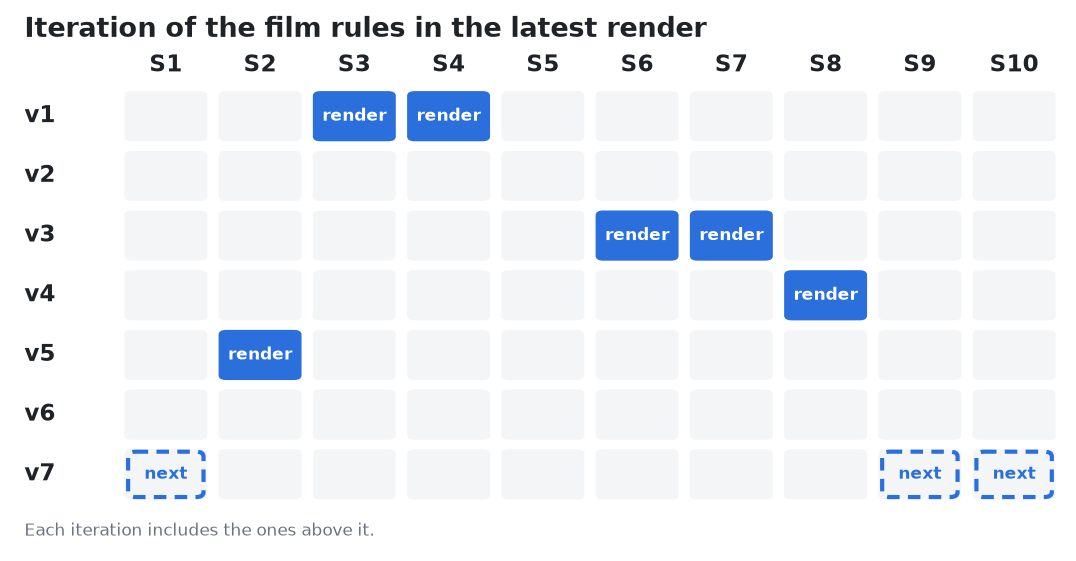
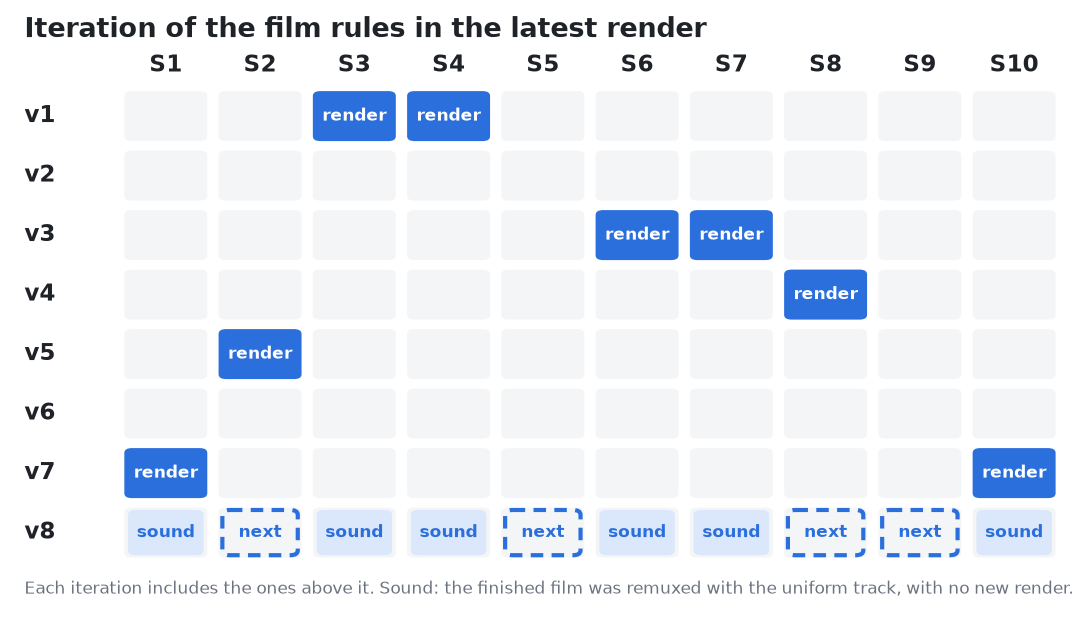
Show the rules of 2026-10-23 and the renders of sessions 1 and 10 in the chart
The chart of rule iterations gains v8, the uniform sound matched to
session 6 and the recording pipeline with per-film options. Sessions 1
and 10 are now rendered on v7, the eight finished films carry the
uniform sound by a remux, and sessions 2, 5, 8 and 9 are the ones made
on v8 next. The script that draws the chart now lives next to it.

Claude-Session: https://claude.ai/code/session_01SC7dtWY3nJBJX617abbvfb

diff --git a/docs/index.html b/docs/index.html
@@ -60,7 +60,7 @@
   <section id="versions">
     <h2><a href="#versions">Versions</a> The rules each film follows</h2>
     <p>The way the films are made changes from one film to the next. The chart shows which iteration of the rules the latest render of each film follows; the films marked next are being made now.</p>
-    <img src="film_rules.png" alt="Matrix of films 1 to 10 against rule iterations v1 to v7" style="width:100%;height:auto">
+    <img src="film_rules.png" alt="Matrix of films 1 to 10 against rule iterations v1 to v8" style="width:100%;height:auto">
   </section>
 </main>
 </body>

diff --git a/docs/film_rules.py b/docs/film_rules.py
@@ -1,0 +1,45 @@
+"""Draw film_rules.png, the chart of which iteration of the film rules each film follows. Run from docs/."""
+import matplotlib; matplotlib.use('Agg')
+import matplotlib.pyplot as plt
+from matplotlib.patches import FancyBboxPatch
+V = [("v1  10-15", "First films: mind palace, voice as narrator,\ncaptions in a game dialogue box"),
+     ("v2  10-17", "Photographic look C, physics in the landscape,\nlegible text, plots name their axes"),
+     ("v3  10-19", "Pedagogical plan (SETS.md) before render,\nvoice slips made true by the picture"),
+     ("v4  10-20", "Set kit and palace engine, formulas on\nblackboards, every card framed"),
+     ("v5  10-21", "Partial overlap of old formulas allowed,\ncaptions and preflight made for builders"),
+     ("v6  10-22 am", "Frames per world, majestic themed gates,\nphotoreal worlds, layout screen checks"),
+     ("v7  10-22 noon", "Essence dialogue, distant mist, photoreal\nhorizon, 2D winding world with hills"),
+     ("v8  10-23", "Uniform sound matched to session 6,\nrecording pipeline with per-film options")]
+done = {3: 0, 4: 0, 6: 2, 7: 2, 8: 3, 2: 4, 1: 6, 10: 6}   # session -> version index of its latest full render
+prep = {2: 7, 5: 7, 8: 7, 9: 7}                            # being made now, target version
+sound = {1, 2, 3, 4, 6, 7, 8, 10}                          # finished films remuxed with the uniform sound of v8
+SOUND = 7
+ink, muted, grid, fill, surf = '#1f2328', '#6b7280', '#d8dce2', '#2a6fdb', '#ffffff'
+fig, ax = plt.subplots(figsize=(9, 5.1), dpi=150); fig.patch.set_facecolor(surf)
+nr, nc = len(V), 10
+for r in range(nr):
+    for c in range(nc):
+        ax.add_patch(FancyBboxPatch((c + 0.06, r + 0.08), 0.88, 0.84, boxstyle='round,pad=0,rounding_size=0.08',
+                                    fc='#f4f5f7', ec='none'))
+for s, r in done.items():
+    ax.add_patch(FancyBboxPatch((s - 1 + 0.06, r + 0.08), 0.88, 0.84, boxstyle='round,pad=0,rounding_size=0.08', fc=fill, ec='none'))
+    ax.text(s - 0.5, r + 0.5, 'render', ha='center', va='center', color='white', fontsize=8, weight='bold')
+for s in sound - set(prep):
+    ax.add_patch(FancyBboxPatch((s - 1 + 0.1, SOUND + 0.12), 0.8, 0.76, boxstyle='round,pad=0,rounding_size=0.08',
+                                fc='#dbe7fb', ec='none'))
+    ax.text(s - 0.5, SOUND + 0.5, 'sound', ha='center', va='center', color=fill, fontsize=8, weight='bold')
+for s, r in prep.items():
+    ax.add_patch(FancyBboxPatch((s - 1 + 0.1, r + 0.12), 0.8, 0.76, boxstyle='round,pad=0,rounding_size=0.08', fc='none',
+                                ec=fill, lw=2, ls=(0, (3, 2))))
+    ax.text(s - 0.5, r + 0.5, 'next', ha='center', va='center', color=fill, fontsize=8, weight='bold')
+ax.set_xlim(-1.1, nc); ax.axis('off')
+for c in range(nc):
+    ax.text(c + 0.5, -0.35, f'S{c + 1}', ha='center', va='center', color=ink, fontsize=11, weight='bold')
+for r, (v, d) in enumerate(V):
+    ax.text(-1.0, r + 0.5, v.split()[0], ha='left', va='center', color=ink, fontsize=11, weight='bold')
+ax.text(-1.0, -0.95, 'Iteration of the film rules in the latest render', ha='left', va='center', color=ink,
+        fontsize=13, weight='bold')
+ax.text(-1.0, nr + 0.45, 'Each iteration includes the ones above it. Sound: the finished film was remuxed with the '
+        'uniform track, with no new render.', ha='left', va='center', color=muted, fontsize=8)
+ax.set_ylim(nr + 0.7, -1.2)
+fig.savefig('film_rules.png', bbox_inches='tight', facecolor=surf)
